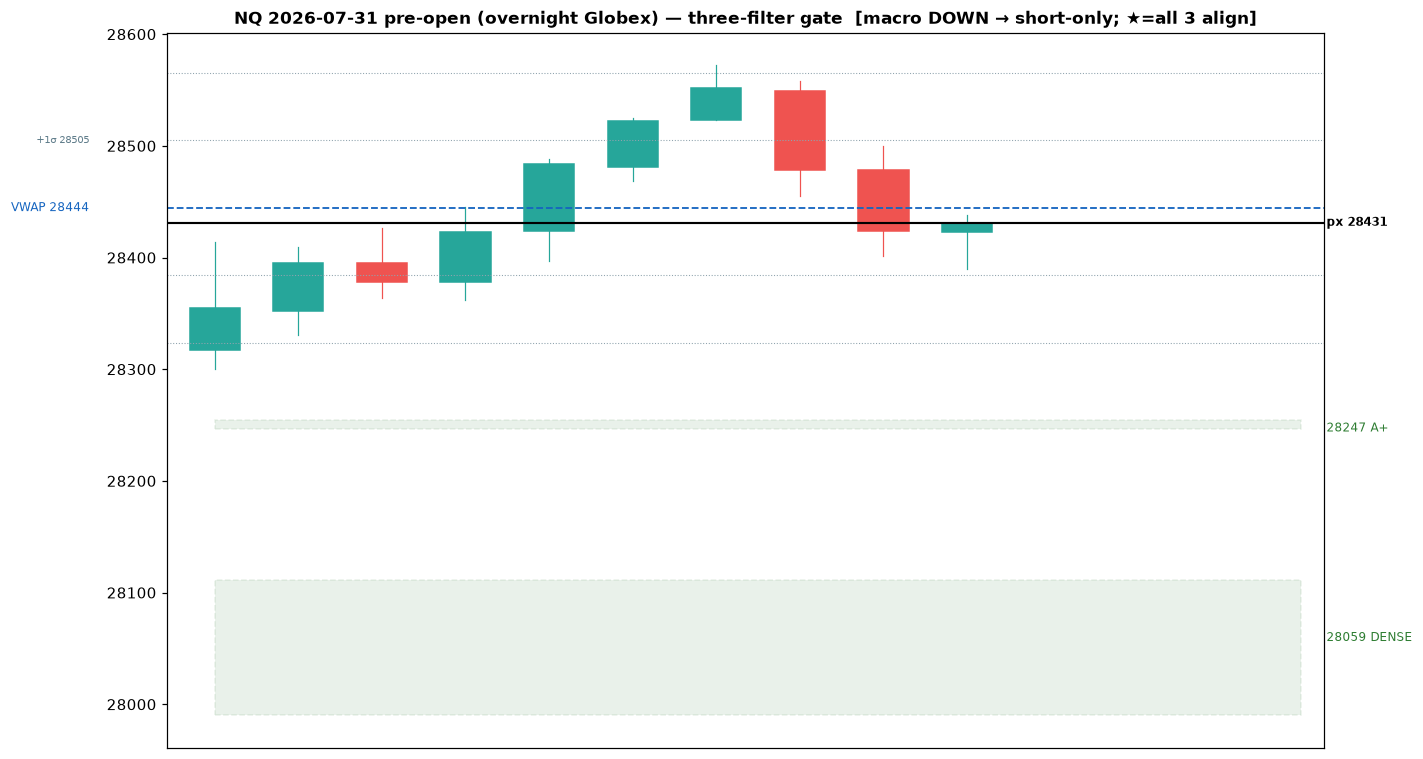
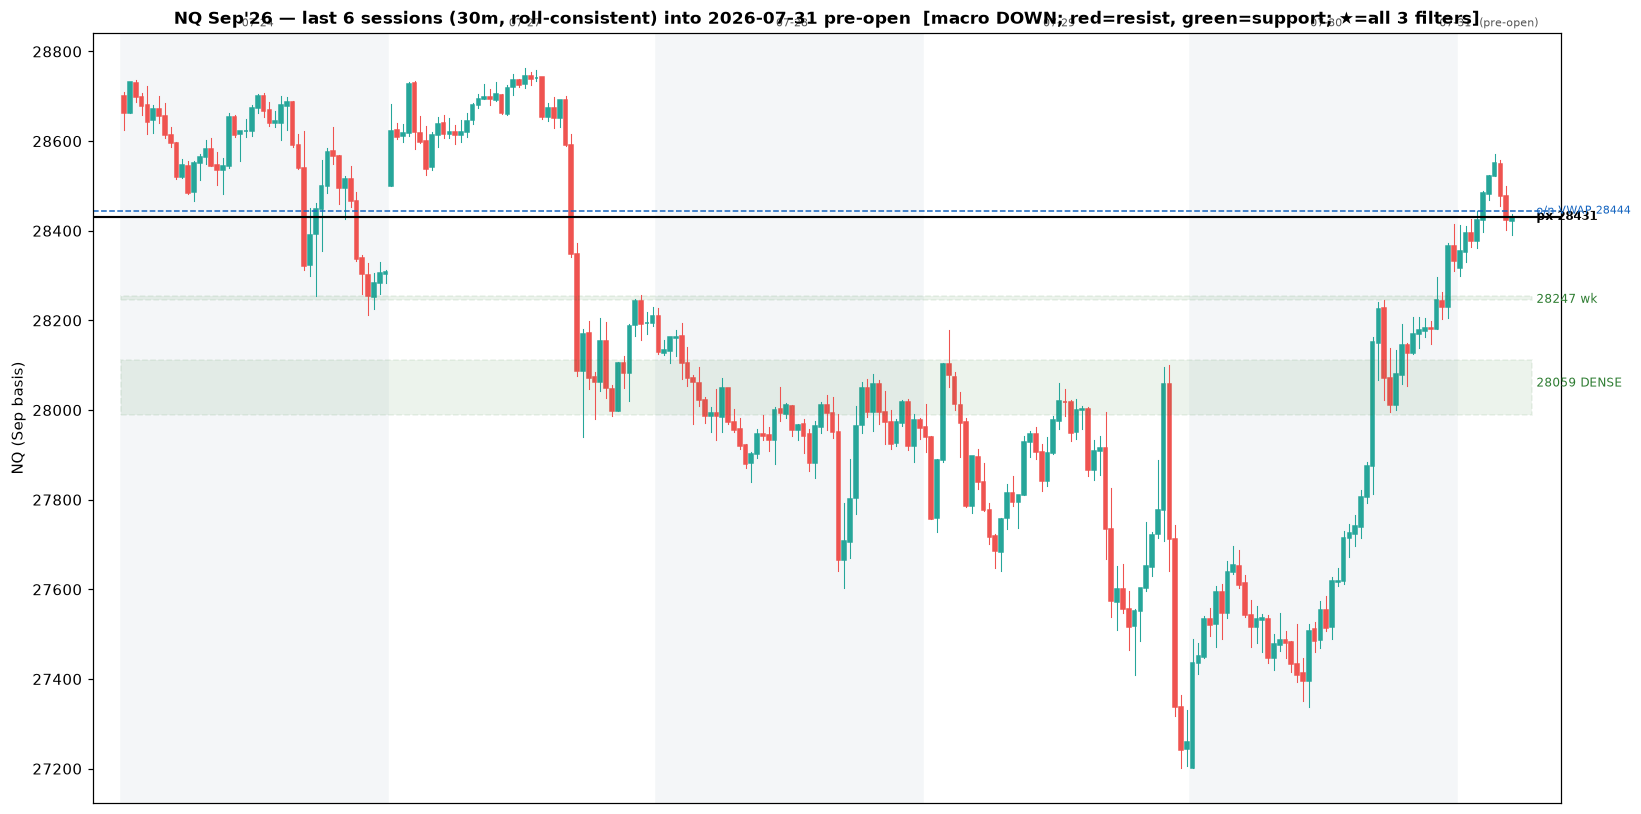
Roll-consistent continuous futures data + deeper multi-session read
Fix thin single-pull read: macro bias now from 64 Sep-basis daily closes (1h
front-month file), single-contract basis = no roll gap. Document the quarterly
roll (front Sep'26/back Dec'26, next roll ~Sep 10) and that prior fronts trade
~cost-of-carry below Sep and must be back-adjusted, not mixed raw. Chart deepened
to last 6 sessions (30m) with session shading so the V-bounce off 27200 into the
28500-28700 breakdown shelf is visible.

Claude-Session: https://claude.ai/code/session_016aQdjV8pEkud2m7UoLztFR

diff --git a/scripts/three_filter_read.py b/scripts/three_filter_read.py
@@ -1,17 +1,22 @@
-"""Live three-filter read: LOCATION + DIRECTION + EXTENSION.
+"""Live three-filter read: LOCATION + DIRECTION + EXTENSION — on ROLL-CONSISTENT
+continuous futures data.
 
-For each pre-open confluence zone near price, show all three gates and only flag
-TAKE when they align:
+NQ auto-rolls quarterly (Mar/Jun/Sep/Dec). On 2026-07-31 the liquid front month
+is Sep'26 (exp 2026-09-18); Dec'26 is the back month; next roll ~Sep 10. All
+history here is taken on the SEP contract's own basis (single-basis = no roll
+gap), spanning May->Jul, rather than a thin single-session pull. Prior fronts
+(Jun/Mar) trade ~cost-of-carry below Sep and would need back-adjustment to
+splice; we don't mix bases.
+
+Three gates, TAKE only when all align:
   1. LOCATION  - A+/DENSE confluence zone (score>=8, >=2 distinct sources)
-  2. DIRECTION - the fade agrees with the macro daily trend (10/20 SMA + slope)
-  3. EXTENSION - price is >= 0.5 session-sigma from VWAP toward the zone
-The extension uses the CURRENT session's VWAP (overnight Globex now; it resets at
-the 9:30 RTH open - the stretch is a live trigger, re-read intraday).
+  2. DIRECTION - fade agrees with macro daily trend (10/20 SMA + slope), Sep basis
+  3. EXTENSION - price >= 0.5 session-sigma from VWAP toward the zone (live; the
+     overnight Globex VWAP now, resets at the 9:30 RTH open)
 """
 
 from __future__ import annotations
 
-import json
 import sys
 from pathlib import Path
 
@@ -28,8 +33,9 @@ import scripts.backtest_confluence as bt
 from scripts.sim_15day import macro_bias, WIN_F
 
 ET = "America/New_York"
-LIVE_PX = 28431.25   # snapshot last
+LIVE_PX = 28431.25
 K_STRETCH = 0.5
+CHART_SESSIONS = 6
 
 
 def sess_split(df):
@@ -41,87 +47,92 @@ def sess_split(df):
     return df, ids, {i: df[df["sess"] == i] for i in ids}
 
 
-def build_daily():
-    """macro daily closes: real dailies (Apr-Jul2) + July session RTH closes."""
-    r = json.loads((ROOT / "data" / "nq_daily_3m.json").read_text())
-    dd = pd.Series(r["close"], index=pd.to_datetime(r["time"], utc=True).tz_convert(ET).date)
-    df = bt.load("nq_30min_eth.json")
-    df, ids, bysess = sess_split(df)
-    sc = {}
-    for s in ids:
-        rth = bysess[s][(bysess[s].index.time >= pd.Timestamp("09:30").time()) &
-                        (bysess[s].index.time < pd.Timestamp("16:00").time())]
-        if len(rth):
-            sc[pd.Timestamp(s).date()] = float(rth["close"].iloc[-1])
-    sc = pd.Series(sc)
-    daily = pd.concat([dd[dd.index < sc.index.min()], sc]).sort_index()
-    return daily[~daily.index.duplicated(keep="last")], df, ids, bysess
+def rth(g):
+    return g[(g.index.time >= pd.Timestamp("09:30").time()) &
+             (g.index.time < pd.Timestamp("16:00").time())]
+
+
+def macro_daily():
+    """Sep-basis daily RTH closes from the 1h continuous front-month file."""
+    df, ids, bysess = sess_split(bt.load("nq_1h_eth.json"))
+    d = {pd.Timestamp(s).date(): float(rth(bysess[s])["close"].iloc[-1])
+         for s in ids if len(rth(bysess[s]))}
+    return pd.Series(d).sort_index()
 
 
 def main():
-    daily, df, ids, bysess = build_daily()
-    cur_sess = ids[-1]                      # current (Jul 31) Globex session, RTH not open
+    daily = macro_daily()
+    df30, ids, bysess = sess_split(bt.load("nq_30min_eth.json"))
+    cur_sess = ids[-1]
     cur_date = pd.Timestamp(cur_sess).date()
     px = LIVE_PX
 
-    # macro DIRECTION
     bias = macro_bias(daily, cur_date)
     bias_txt = {1: "UP", -1: "DOWN", 0: "MIXED"}[bias]
+    s10 = daily.iloc[-10:].mean(); s20 = daily.iloc[-20:].mean()
 
-    # LOCATION: pre-open zones from all bars up to now
-    hist = df[df["sess"] < cur_sess]        # completed sessions
-    prior = bysess[ids[-2]]
-    zs, _ = bt.build(hist, prior, 13)
-    # display the real structure within 1.5% (w>=6 or >=3 sources); TAKE still needs w>=8
+    hist = df30[df30["sess"] < cur_sess]
+    zs, _ = bt.build(hist, bysess[ids[-2]], 13)
     az = [z for z in zs if (z["w"] >= 6 or z["nt"] >= 3) and abs(z["price"] - px) <= 0.015 * px]
     az.sort(key=lambda z: z["price"], reverse=True)
 
-    # EXTENSION: current Globex session VWAP + sigma (live)
     g = bysess[cur_sess]
     tp = (g["high"] + g["low"] + g["close"]) / 3
-    v = g["volume"].clip(lower=1e-9)
-    cv = v.cumsum()
+    v = g["volume"].clip(lower=1e-9); cv = v.cumsum()
     vwap = float(((tp * v).cumsum() / cv).iloc[-1])
     sd = float(np.sqrt(((tp - vwap) ** 2 * v).cumsum().iloc[-1] / cv.iloc[-1]))
     stretch = (px - vwap) / sd if sd else 0.0
 
     print(f"NQ three-filter read — {cur_date} PRE-OPEN (overnight Globex)   price {px:.0f}")
-    print(f"  prior RTH close 28238   overnight range 28300-28572   +193 (+0.69%)\n")
-    print(f"FILTER 2 DIRECTION : macro daily bias = {bias_txt}  "
-          f"-> only {'SHORT resistance' if bias<0 else ('LONG support' if bias>0 else 'stand aside')} fades\n")
-    print(f"FILTER 3 EXTENSION : session VWAP {vwap:.0f}  sigma {sd:.0f}  "
-          f"price stretch = {stretch:+.2f}sigma  (need |>=|{K_STRETCH} toward the zone)")
-    print(f"  (overnight VWAP now; RESETS at 9:30 RTH open - re-read intraday)\n")
-    print("FILTER 1 LOCATION  - A+/DENSE zones in play, with the full gate:\n")
-    hdr = f"  {'zone':17s} {'grade':6s} {'side':5s} {'dir?':5s} {'stretch?':9s}  VERDICT"
+    print(f"  CONTRACT: front Sep'26 (exp 09-18)  |  back Dec'26  |  next roll ~Sep 10  |  basis: Sep, single")
+    print(f"  prior RTH close 28238   overnight range 28300-28572   +193 (+0.69%)")
+    print(f"  macro series: {len(daily)} Sep-basis daily closes {daily.index[0]}..{daily.index[-1]}\n")
+    print(f"FILTER 2 DIRECTION : macro bias {bias_txt}  (10d SMA {s10:.0f} vs 20d SMA {s20:.0f}) "
+          f"-> {'SHORT resistance only' if bias<0 else ('LONG support only' if bias>0 else 'stand aside')}\n")
+    print(f"FILTER 3 EXTENSION : session VWAP {vwap:.0f}  sigma {sd:.0f}  stretch {stretch:+.2f}sigma "
+          f"(need >={K_STRETCH} toward zone; RESETS 9:30)\n")
+    print("FILTER 1 LOCATION  - structure in play + full gate:\n")
+    hdr = f"  {'zone':18s} {'grade':6s} {'side':5s} {'dir?':5s} {'stretch?':9s}  VERDICT"
     print(hdr); print("  " + "-" * (len(hdr) - 2))
     for z in az:
-        dense = z["nt"] >= 4
-        grade = ("DENSE" if dense else "A+") if z["w"] >= 8 else "wk"
+        grade = ("DENSE" if z["nt"] >= 4 else "A+") if z["w"] >= 8 else "wk"
         side = "short" if z["price"] > px else "long"
         dir_ok = (side == "short" and bias < 0) or (side == "long" and bias > 0)
-        # stretch toward THIS zone: for a short you want price stretched UP (stretch>0)
         toward = stretch if side == "short" else -stretch
         str_ok = toward >= K_STRETCH
-        verdict = "TAKE" if (dir_ok and str_ok and z["w"] >= 8) else "wait"
+        take = dir_ok and str_ok and z["w"] >= 8
         why = []
         if not dir_ok: why.append("vs trend")
-        if not str_ok: why.append(f"not stretched ({toward:+.1f}s)")
-        tag = verdict + ("" if verdict == "TAKE" else "  (" + ", ".join(why) + ")")
+        if z["w"] < 8: why.append("not A+")
+        if not str_ok: why.append(f"flat {toward:+.1f}s")
+        tag = "TAKE" if take else "wait  (" + ", ".join(why) + ")"
         print(f"  {z['lo']:.0f}-{z['hi']:.0f} @{z['price']:.0f}  {grade:6s} {side:5s} "
               f"{'yes' if dir_ok else 'no':5s} {'yes' if str_ok else 'no':9s}  {tag}")
 
-    _chart(g, az, px, vwap, sd, bias, cur_date)
+    _chart(df30, ids, bysess, az, px, vwap, sd, bias, cur_date)
 
 
-def _chart(g, az, px, vwap, sd, bias, cur_date):
-    a = g.reset_index()
-    fig, ax = plt.subplots(figsize=(13, 7))
-    for i, r in a.iterrows():
-        up = r["close"] >= r["open"]; c = "#26a69a" if up else "#ef5350"
-        ax.plot([i, i], [r["low"], r["high"]], color=c, lw=0.8)
-        ax.add_patch(Rectangle((i - 0.3, min(r["open"], r["close"])), 0.6,
-                               abs(r["close"] - r["open"]) + 0.5, facecolor=c, edgecolor=c))
+def _chart(df30, ids, bysess, az, px, vwap, sd, bias, cur_date):
+    show = ids[-CHART_SESSIONS:]
+    bars = pd.concat([bysess[s] for s in show])
+    a = bars.reset_index()
+    fig, ax = plt.subplots(figsize=(15, 7.5))
+    # session shading + dividers
+    xstart = 0
+    for k, s in enumerate(show):
+        n = len(bysess[s])
+        if k % 2 == 0:
+            ax.axvspan(xstart - 0.5, xstart + n - 0.5, color="#f4f6f8", zorder=0)
+        r = rth(bysess[s])
+        lab = pd.Timestamp(s).strftime("%m-%d") + ("  (pre-open)" if s == show[-1] else "")
+        ax.text(xstart + n / 2, 1.005, lab, transform=ax.get_xaxis_transform(),
+                ha="center", va="bottom", fontsize=7.5, color="#555")
+        xstart += n
+    for i, row in a.iterrows():
+        up = row["close"] >= row["open"]; c = "#26a69a" if up else "#ef5350"
+        ax.plot([i, i], [row["low"], row["high"]], color=c, lw=0.7)
+        ax.add_patch(Rectangle((i - 0.32, min(row["open"], row["close"])), 0.64,
+                               abs(row["close"] - row["open"]) + 0.4, facecolor=c, edgecolor=c))
     m = len(a)
     for z in az:
         side = "short" if z["price"] > px else "long"
@@ -129,24 +140,21 @@ def _chart(g, az, px, vwap, sd, bias, cur_date):
         toward = ((px - vwap) / sd) * (1 if side == "short" else -1)
         take = dir_ok and toward >= K_STRETCH and z["w"] >= 8
         col = "#d32f2f" if side == "short" else "#2e7d32"
-        ax.add_patch(Rectangle((0, z["lo"]), m + 3, max(z["hi"] - z["lo"], 8), facecolor=col,
-                               alpha=0.28 if take else 0.10, edgecolor=col,
-                               lw=2.4 if take else 1.0, ls="-" if take else "--"))
-        lab = f"{z['price']:.0f} {'DENSE' if z['nt']>=4 else 'A+'}" + ("  ★TAKE" if take else "")
-        ax.text(m + 3.3, z["price"], lab, color=col, fontsize=8,
-                va="center", fontweight="bold" if take else "normal")
+        ax.add_patch(Rectangle((-0.5, z["lo"]), m + 3, max(z["hi"] - z["lo"], 8), facecolor=col,
+                               alpha=0.24 if take else 0.09, edgecolor=col,
+                               lw=2.2 if take else 1.0, ls="-" if take else "--", zorder=1))
+        g = "DENSE" if z["nt"] >= 4 else ("A+" if z["w"] >= 8 else "wk")
+        ax.text(m + 3.2, z["price"], f"{z['price']:.0f} {g}" + ("  ★TAKE" if take else ""),
+                color=col, fontsize=8, va="center", fontweight="bold" if take else "normal")
     ax.axhline(px, color="#000", lw=1.4)
-    ax.text(m + 3.3, px, f"px {px:.0f}", fontsize=8, va="center", fontweight="bold")
-    ax.axhline(vwap, color="#1565c0", lw=1.2, ls="--")
-    ax.text(-1.5, vwap, f"VWAP {vwap:.0f}", color="#1565c0", fontsize=8, va="center", ha="right")
-    for s_ in (1, 2):
-        for sign in (1, -1):
-            ax.axhline(vwap + sign * s_ * sd, color="#90a4ae", lw=0.7, ls=":")
-    ax.text(-1.5, vwap + sd, f"+1σ {vwap+sd:.0f}", color="#607d8b", fontsize=6.5, va="center", ha="right")
+    ax.text(m + 3.2, px, f"px {px:.0f}", fontsize=8, va="center", fontweight="bold")
+    ax.axhline(vwap, color="#1565c0", lw=1.0, ls="--")
+    ax.text(m + 3.2, vwap, f"o/n VWAP {vwap:.0f}", color="#1565c0", fontsize=7, va="center")
     bt_txt = {1: "UP", -1: "DOWN", 0: "MIXED"}[bias]
-    ax.set_title(f"NQ {cur_date} pre-open (overnight Globex) — three-filter gate  "
-                 f"[macro {bt_txt} → short-only; ★=all 3 align]", fontsize=11, fontweight="bold")
+    ax.set_title(f"NQ Sep'26 — last {CHART_SESSIONS} sessions (30m, roll-consistent) into {cur_date} pre-open  "
+                 f"[macro {bt_txt}; red=resist, green=support; ★=all 3 filters]", fontsize=11, fontweight="bold")
     ax.set_xticks([]); ax.margins(x=0.02)
+    ax.set_ylabel("NQ (Sep basis)")
     plt.tight_layout()
     out = ROOT / "reports" / "img" / "nq_three_filter_today.png"
     plt.savefig(out, dpi=110, bbox_inches="tight")
